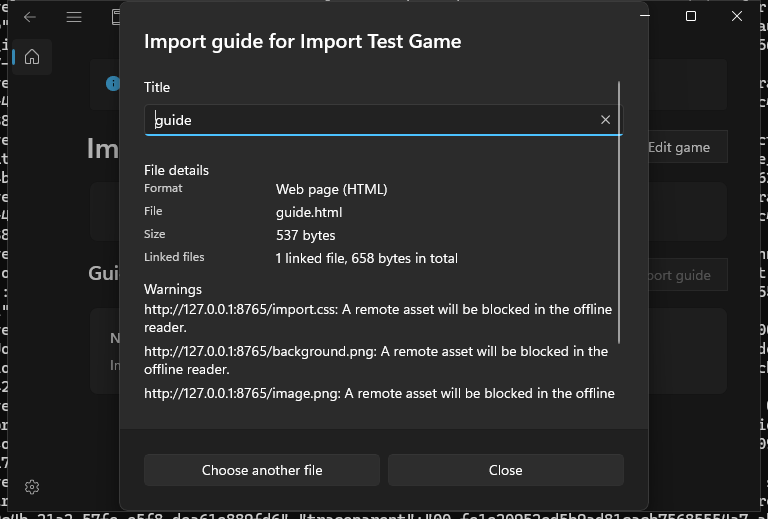
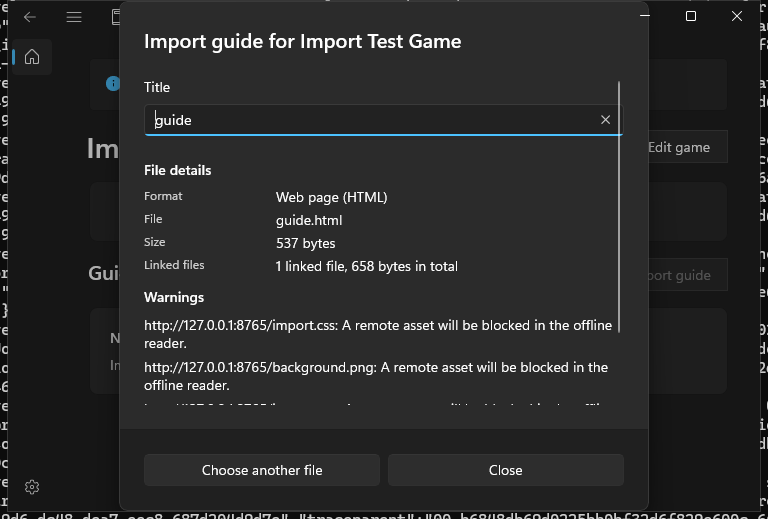
docs(p1): record the T06.1 review fixes
Points the verification record, plan status and progress page at CI run
36658419215 (198 Core, 294 Infrastructure, installed import preview in
light and dark), adds the final-review fixes and the deferred OneDrive
finding to the record, and refreshes the preview screenshots with the
new group header style.

diff --git a/docs/progress.md b/docs/progress.md
@@ -15,7 +15,7 @@ the [work breakdown](work-breakdown.md).
 | P1 T04.4 provider search | Merged through [PR #14](https://github.com/ilya-slalom/desktop-guides/pull/14), merge commit `3e490de93a2733978c9000d754a8d618f0208563`. | IGDB metadata with user-supplied Twitch credentials and SteamGridDB artwork with a user-supplied key; the [installed result](p1/results.md#m2-t044-provider-search--implementation-check-29-september-2026) records the tests and harness phases. |
 | P1 portable build | Merged through [PR #15](https://github.com/ilya-slalom/desktop-guides/pull/15), merge commit `a4bb44c8ef06053cf1b2e5b154641fb95cf5fa1a`. | Releases ship a signed MSIX and a portable self-contained exe; see [Portable build](p1/e2e-testing.md#portable-build). |
 | P1 T05.4 catalog components | Merged through [PR #16](https://github.com/ilya-slalom/desktop-guides/pull/16), merge commit `515440a203843afee8eec6d48bce7f4d9bf8f8ca`. | Shared catalog styles and the artwork row template, adopted by Add game, Game detail, the status surfaces and the Library list. CI `production-shell-ui` passed the catalog scenario in light and dark; see the [verification record](p1/t05-4-catalog-components-design.md#t054-verification-record). |
-| P1 T06.1 + T06.2 import preview | Implemented and verified on `feat/p1-t06-1-import-preview`; PR pending. | Picker, validated preview and typed import manifest for TXT, HTML and PDF. CI run 36651770617 passed the installed `import-preview` scenario in light and dark with no guide, file operation or staged file created; see the [verification record](p1/t06-1-import-preview-design.md#t061--t062-verification-record). T06.3 adds Confirm and publication. |
+| P1 T06.1 + T06.2 import preview | Implemented and verified on `feat/p1-t06-1-import-preview`; PR pending. | Picker, validated preview and typed import manifest for TXT, HTML and PDF. CI run 36658419215 passed the installed `import-preview` scenario in light and dark with no guide, file operation or staged file created; see the [verification record](p1/t06-1-import-preview-design.md#t061--t062-verification-record). T06.3 adds Confirm and publication. |
 | P1 first usable release | M1 and M2 in progress; M3–M6 not started. | [P1 technical design](p1-technical-design.md) and [dependency plan](p1/implementation-plan.md) cover 16 stories and 54 tasks: S03–S17 plus S20. T11.4 now establishes the design language and starts stable Toolkit adoption with `SettingsCard`; mapped later tasks add `MetadataControl`, `HeaderedContentControl`, `Segmented`, `GridSplitter`, and conditional `RichSuggestBox` when their workflows exist. The [installed E2E procedure](p1/e2e-testing.md) uses an interactive scheduled task for the signed MSIX and UI workflows. S20 manual export/restore is in P1 because an uninstall removes package local data. |
 
 The remaining M1 task is T17.1 in the [P1 plan](p1/implementation-plan.md).

diff --git a/docs/p1/t06-1-import-preview-design.md b/docs/p1/t06-1-import-preview-design.md
@@ -333,7 +333,7 @@ screenshots of the preview.
 
 ## T06.1 + T06.2 verification record
 
-- **Unit tests.** `core-tests` in CI run 36651770617: 198 Core and 290
+- **Unit tests.** `core-tests` in CI run 36658419215: 198 Core and 294
   Infrastructure passes, including `GuideTitleTests`,
   `ImportPresentationTests`, `GuideImportValidatorTests` and
   `GuideImportValidatorHtmlPdfTests`.
@@ -387,3 +387,25 @@ screenshots of the preview.
     not `IsOffscreen`. Cost if wrong: none.
   - `FirstLines` trims the newline a final CRLF leaves on the sample. Cost if
     wrong: a one-character sample difference.
+- **Final review.** A whole-branch review found no Critical issues. Its fixes
+  are in CI run 36658419215:
+  - PDF inspection stops on Cancel or Close: PdfPig ignores the token, so
+    the validator reads through a stream that checks it on every read and
+    seek.
+  - TXT and HTML inspection and the encoding choice run on the thread pool,
+    because cached reads complete synchronously and large files decoded on
+    the UI thread.
+  - HTML entry names the library can't store, such as `Sonic .html`, and
+    style sheets whose declared encoding doesn't match their bytes get their
+    own messages. The name is checked before the scan, so any other scanner
+    `InvalidDataException` reads as a style-sheet error. Cost if wrong: a
+    future scanner error of that type is described as a style-sheet problem.
+  - The first picker catches any failure, and the group headers use the
+    dialog heading style.
+  - Not fixed here: the P0 scanner rejects every reparse point, so an HTML
+    guide in a OneDrive or other cloud-synced folder is likely refused as
+    "refers to a file outside its folder". Accepting cloud reparse tags
+    relaxes an untrusted-path check and needs its own design and a host
+    check; TXT and PDF are unaffected. Cost if wrong: HTML guides saved to a
+    OneDrive-backed Desktop or Documents folder can't be imported until the
+    follow-up lands.

diff --git a/docs/p1/implementation-plan.md b/docs/p1/implementation-plan.md
@@ -622,7 +622,7 @@ The [T06.1 + T06.2 import preview design](t06-1-import-preview-design.md)
 and [plan](t06-1-import-preview-plan.md) add the Import guide button, the
 system file picker, the preview dialog and `GuideImportValidator` for TXT,
 HTML and PDF. They were implemented and verified on 30 September 2026: CI run
-36651770617 passed `core-tests`, both package builds and the installed
+36658419215 passed `core-tests`, both package builds and the installed
 `import-preview` scenario in light and dark. Confirm, copying and
 publication remain T06.3.
 
